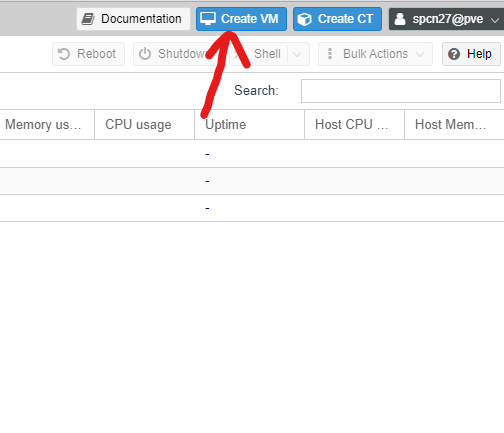
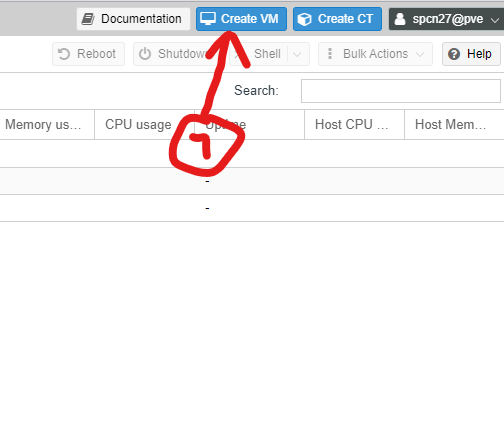
1

Changed region(s): [[0.3274, 0.2402, 0.506, 0.4203]]

diff --git a/README.md b/README.md
@@ -1,7 +1,15 @@
 <p align="center"> <img src="Screenshots/logo.png" alt="Paris" width="200"></p>
 
-# <p align="center">ขั้นตอนในการสร้าง vm and ct on Proxmox cluster</p>
+# <p align="center">ขั้นตอนในการสร้าง vm and ct on Proxmox cluster บน Proxmox</p>
 
 ## สร้าง master vm (ubuntu-22.04)
-![](Screenshots/(39-1).png)
+
+    1. กดเลือกปุ่ม **Create VM**
+
+<p align="center"> <img src="Screenshots/(39-1).png" alt="Paris" ></p>
+
+    2. กรอกช่อง **Name** โดยตั้ง [* *ตัวอักษรชื่อภาษาอังกฤษตัวเองอย่างน้อย 3 ตัว-เลข VM ID* *] และช่องDropdown **Resource Pool** ให้เลือก [* *Special_CN* *] แล้วกด **Next**
+    3. ช่องDropdown **ISO image** ให้เลือก [* *ubuntu-22.04.1-live-server-amd6...* *] แล้วกด **Next** ข้อมูลหลังจากนี้จะเป็นค่า **Default** ทั้งหมดไม่ต้องแก้อะไรทั้งสิ้นจดกว่าจะถึงการตั้งค่าใน VM
+
+<p align="center"><img src="Screenshots/(40).png" alt="Paris"><img src="Screenshots/(41).png" alt="Paris"></p>
 
